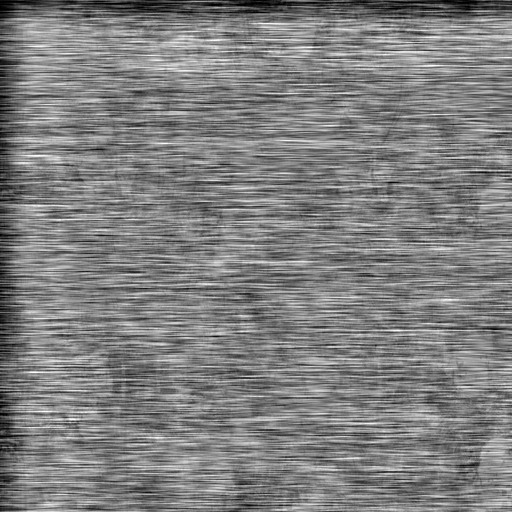
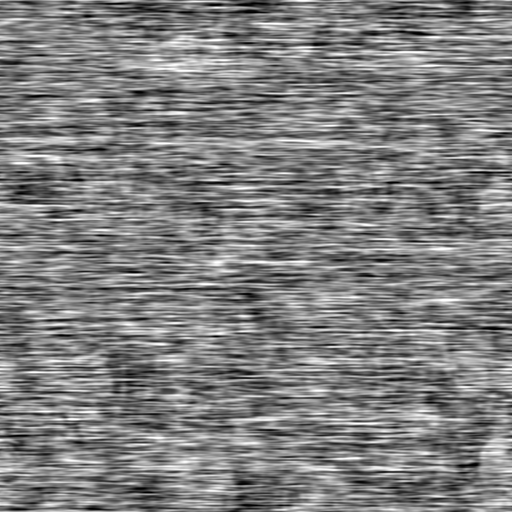
feat(ui): polished metal buttons: softer grain, soft top light, seamless tiles
Rebakes metal.png with a short wrap-around smoothing pass (new :smooth bake
option) and makes the bake's low-pass wrap, removing the dark edge band that
showed as a seam on wide buttons. Button grain 0.6 -> 0.38, gold 0.32 -> 0.15,
plus a 0.1 top-lit sheen (halved when pressed).

Design: design/card-redesign-2026-10-18.md section 4 (user feedback 2026-10-18)

diff --git a/design/card-redesign-2026-10-18.md b/design/card-redesign-2026-10-18.md
@@ -90,7 +90,9 @@ normal maps are baked by `tools/godot/bake_ui_materials.gd` into 512 px seamless
 
 - fine colour variation plus normal-map lighting from the upper left;
 - large-scale blotches removed (true box low-pass), so tiling never shows patches;
-- normalised to a mean of 0.5.
+- normalised to a mean of 0.5;
+- the blur wraps, so tiles meet without a seam;
+- metal only: smoothed (`:1`, a short blur along and across the strokes) so it reads as polished, not raw brushed steel (user feedback 2026-10-18).
 
 `UiSurface` draws a relief map tinted with twice the surface's own colour, which leaves the colour on
 average unchanged and adds only grain. Nothing in the palette moves:
@@ -98,7 +100,7 @@ average unchanged and adds only grain. Nothing in the palette moves:
 | Where | Material | Strength |
 |---|---|---|
 | Sidebar panels, player plates, deck builder / catalogue plates, modals (HousePanel), OrnatePanel | leather | `UIStyle.PANEL_GRAIN` 0.55 (0.44 under gradients) |
-| Every themed button and `primary_button` | brushed metal | `BUTTON_GRAIN` 0.6, gold faces `GOLD_GRAIN` 0.32 |
+| Every themed button and `primary_button` | polished metal | `BUTTON_GRAIN` 0.38, gold faces `GOLD_GRAIN` 0.15, plus a soft top light `BUTTON_SHEEN` 0.1 (halved when pressed) |
 | Catalogue / deck builder backdrop | wood | `BACKDROP_GRAIN` 0.85 |
 | Card bodies / card name plates | pebbled leather / brushed metal | `CardFaceParts.BODY_GRAIN` 0.55 / `PLATE_GRAIN` 0.7 |
 

diff --git a/rldb/assets/CREDITS.md b/rldb/assets/CREDITS.md
@@ -43,4 +43,4 @@ Used unmodified (white glyphs), drawn on coloured tokens by `CardStatusIcons`.
 | metal.png | Metal009 (brushed metal: buttons, card name plates) |
 
 Rebake: download the 1K-JPG zips, unzip their `_Color.jpg` and `_NormalGL.jpg` into one folder, then
-`godot --headless --path rldb -s ../tools/godot/bake_ui_materials.gd -- <folder> leather=Leather032 pebble=Leather030 wood=Wood051 metal=Metal009:1.4:0.3`.
+`godot --headless --path rldb -s ../tools/godot/bake_ui_materials.gd -- <folder> leather=Leather032 pebble=Leather030 wood=Wood051 metal=Metal009:1.0:0.25:1`.
